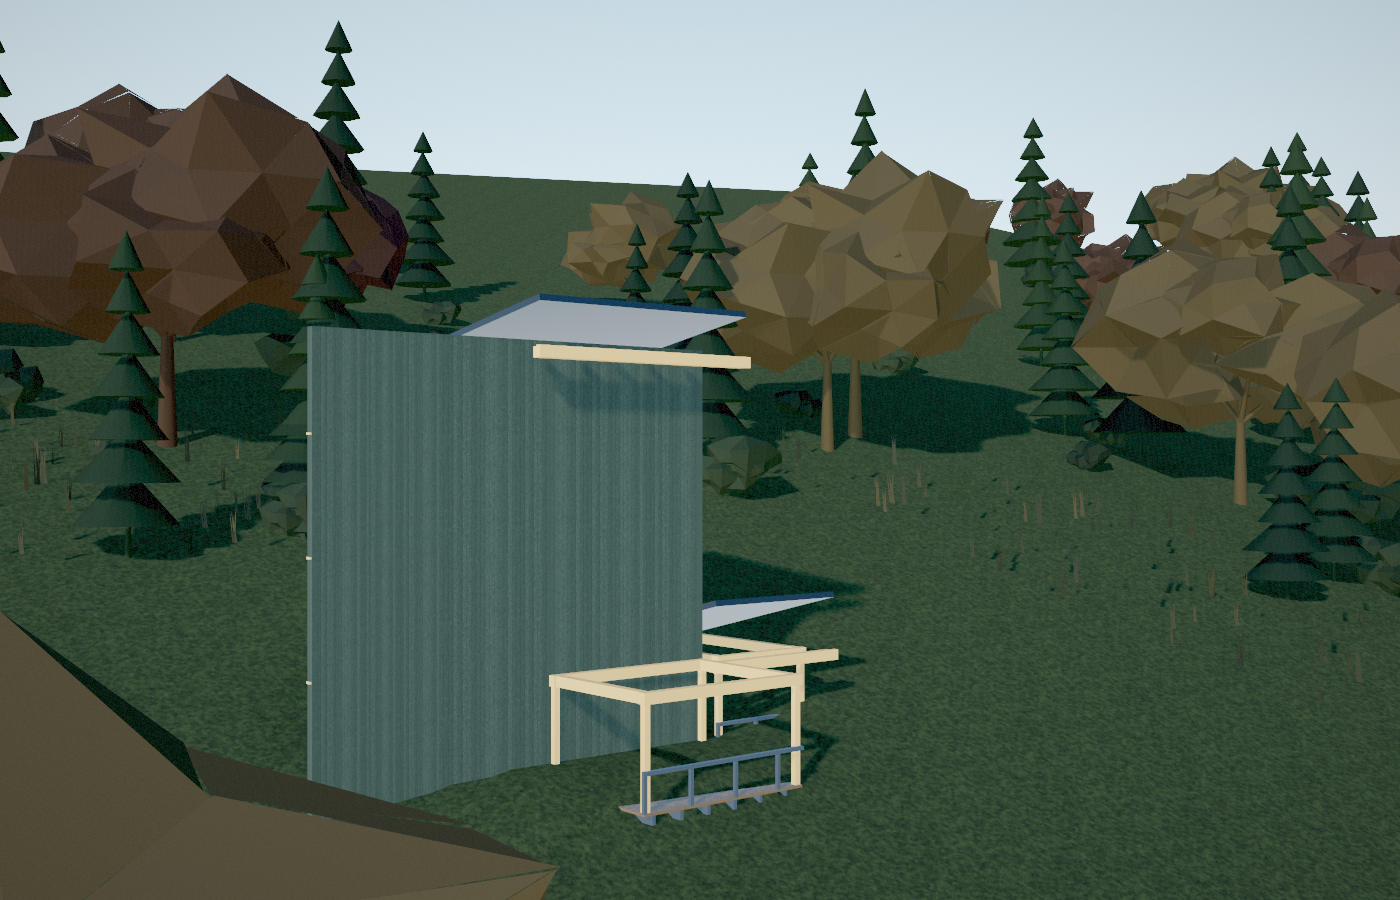
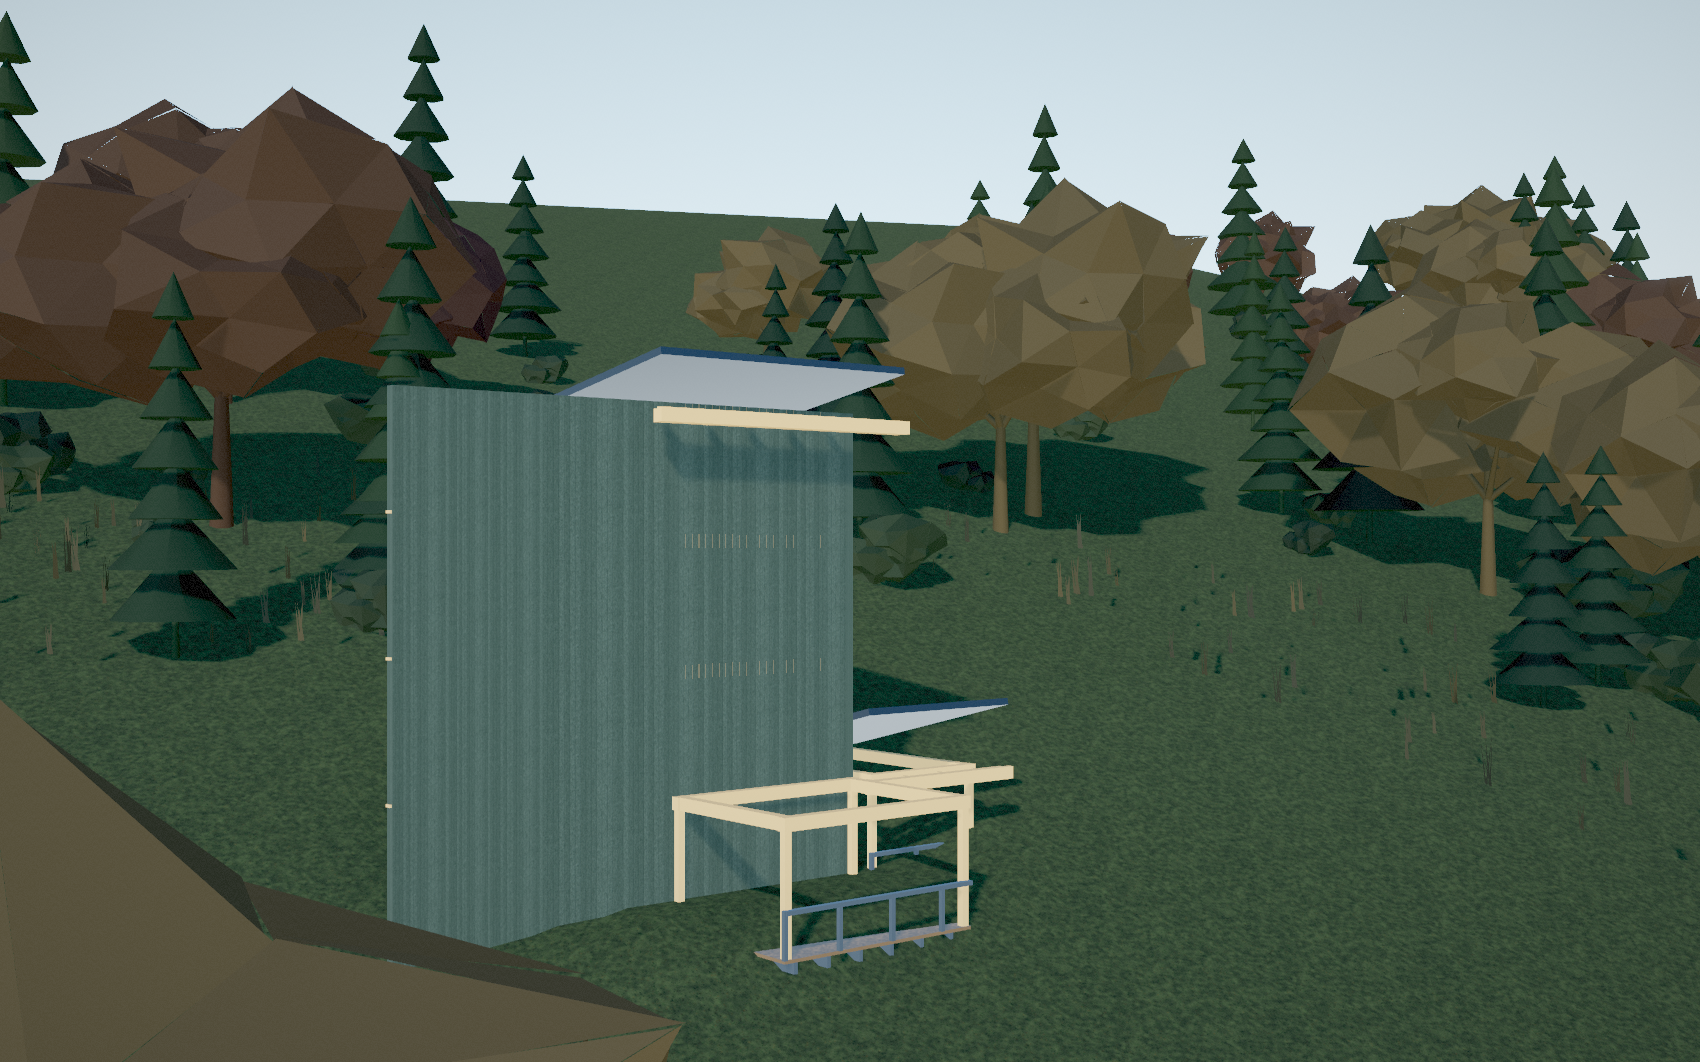
You can walk every scheme now, and the renders meet the house's standard
web/walk-schemes.html: all eleven schemes in one walkthrough, in the same
model the drawings come from. Orbit or first-person W A S D, and the
jump-to list is built from each scheme's OWN CHECKED PLAN -- so what you
can walk to is exactly what was drawn, room by room, and a scheme with no
plan yet says so rather than pretending. 11 schemes, 27 jump points on the
first, wired into the page checks so a broken one fails npm test.

RENDER STANDARD. The scheme shots were 20 samples at 1400x900 from one
distant camera, which is why they read as massing studies beside the
house's own renders. They now match it: 64 samples, 1700x1062 exterior and
1620x1110 interior, the same October afternoon sun and per-view exposure.

Three views each, and each has a job:

  compare   ONE camera, identical for every scheme, never derived. This is
            the A/B shot -- the Perch is small in frame because it IS
            small, and deriving it per scheme would flatter whichever
            framed best. Keeps the bare filename so every sheet and the
            packed page still resolve.
  hero      derived from the scheme's own bounds, so a 72 ft bar and an 18
            ft tower are each seen properly instead of one being a speck.
  interior  placed INSIDE the largest living room of its checked plan, at
            eye height, looking downhill at the view the whole site
            argument is about. Only possible now that the plans exist.
[…]

diff --git a/web/walk-schemes.html b/web/walk-schemes.html
@@ -1,0 +1,200 @@
+<!doctype html>
+<html lang="en">
+<head>
+<meta charset="utf-8">
+<meta name="viewport" content="width=device-width,initial-scale=1">
+<title>HENRY HOUSE — walk the alternatives</title>
+<style>
+  :root{ --ink:#e9edf2; --panel:rgba(16,19,24,.86); --line:#2c333d; --accent:#e08056; --mid:#93a0ae;
+         --mono:ui-monospace,"SF Mono",Menlo,Consolas,monospace; }
+  *{box-sizing:border-box}
+  html,body{margin:0;height:100%;overflow:hidden;background:#0e1114;color:var(--ink);font-family:var(--mono)}
+  canvas{display:block}
+  .panel{position:fixed;top:14px;left:14px;width:250px;max-height:calc(100vh - 28px);overflow:auto;
+    background:var(--panel);border:1px solid var(--line);border-radius:3px;padding:14px;backdrop-filter:blur(8px)}
+  h1{font-size:12px;letter-spacing:.14em;margin:0 0 2px;text-transform:uppercase}
+  .sub{font-size:10.5px;color:var(--mid);line-height:1.45;margin:0 0 12px}
+  .lbl{font-size:9.5px;letter-spacing:.14em;color:var(--mid);text-transform:uppercase;margin:12px 0 5px}
+  button{display:block;width:100%;text-align:left;background:#171c22;color:var(--ink);border:1px solid var(--line);
+    border-radius:2px;padding:6px 8px;margin-bottom:3px;font:inherit;font-size:10.5px;cursor:pointer}
+  button:hover{border-color:var(--accent)}
+  button.on{border-color:var(--accent);color:var(--accent)}
+  button:focus-visible{outline:2px solid var(--accent);outline-offset:1px}
+  select{width:100%;background:#171c22;color:var(--ink);border:1px solid var(--line);border-radius:2px;
+    padding:6px 8px;font:inherit;font-size:11px}
+  .stat{font-size:10px;color:var(--mid);line-height:1.5;margin-top:8px}
+  .hint{position:fixed;bottom:14px;left:50%;transform:translateX(-50%);background:var(--panel);
+    border:1px solid var(--line);border-radius:3px;padding:8px 14px;font-size:10.5px;color:var(--mid)}
+  #err{position:fixed;top:50%;left:50%;transform:translate(-50%,-50%);max-width:44ch;text-align:center;
+    color:#e0806a;font-size:12px;line-height:1.6;display:none}
+</style>
+</head>
+<body>
+<div class="panel">
+  <h1>Walk the alternatives</h1>
+  <p class="sub">Every scheme, in the same model the drawings come from. The rooms, the doors and the fixtures here are the ones on its sheet.</p>
+  <select id="scheme"></select>
+  <div class="stat" id="stat"></div>
+  <div class="lbl">Mode</div>
+  <button id="mOrbit" class="on">Orbit — drag to turn</button>
+  <button id="mWalk">Walk — W A S D, click to look</button>
+  <div class="lbl">Jump to</div>
+  <div id="jump"></div>
+  <div class="lbl">Show</div>
+  <div id="layers"></div>
+</div>
+<div class="hint" id="hint">Drag to orbit · scroll to zoom · switch to Walk and use W A S D</div>
+<div id="err"></div>
+<script type="importmap">
+{"imports":{"three":"./vendor/three/three.module.js","three/addons/":"./vendor/three/addons/"}}
+</script>
+<script type="module">
+import * as THREE from 'three';
+import { OrbitControls } from 'three/addons/controls/OrbitControls.js';
+import { PointerLockControls } from 'three/addons/controls/PointerLockControls.js';
+import { buildSchemeScene } from '../tools/render/lib/scheme3d.mjs';
+import { sunDirection } from '../tools/render/lib/render.mjs';
+import { SCHEMES, metrics } from '../model/schemes.mjs';
+import { planFor } from '../model/scheme-plans.mjs';
+
+window.__loaded = false; window.__error = null;
+const F = (i) => i / 12;
+
+const renderer = new THREE.WebGLRenderer({ antialias: true, powerPreference: 'high-performance' });
+renderer.setPixelRatio(Math.min(devicePixelRatio, 2));
+renderer.setSize(innerWidth, innerHeight);
+renderer.shadowMap.enabled = true;
+renderer.shadowMap.type = THREE.PCFSoftShadowMap;
+renderer.toneMapping = THREE.ACESFilmicToneMapping;
+renderer.outputColorSpace = THREE.SRGBColorSpace;
+document.body.appendChild(renderer.domElement);
+
+const sun = sunDirection({ dayOfYear: 288, hour: 14 });
+const camera = new THREE.PerspectiveCamera(58, innerWidth / innerHeight, 0.25, 9000);
+const orbit = new OrbitControls(camera, renderer.domElement);
+orbit.enableDamping = true; orbit.dampingFactor = 0.07;
+orbit.maxPolarAngle = Math.PI * 0.495;
+const walk = new PointerLockControls(camera, renderer.domElement);
+let mode = 'orbit';
+
+let scene = null, rig = null, groups = [];
+const sel = document.getElementById('scheme');
+for (const s of SCHEMES) {
+  const o = document.createElement('option');
+  o.value = s.id; o.textContent = s.name.replace('THE ', '');
+  sel.appendChild(o);
+}
+
+/** Load one scheme: new scene, new jump list, camera parked outside it. */
+function load(id) {
+  try {
+    if (scene) { scene.traverse(o => { o.geometry?.dispose?.(); }); }
+    const built = buildSchemeScene(renderer, { schemeId: id, sun, realtime: true });
+    scene = built.scene; rig = built.rig;
+    rig.sun.position.copy(sun.dir).multiplyScalar(900).add(rig.focus);
+    rig.sun.target.position.copy(rig.focus);
+    rig.skyLight.position.set(rig.focus.x + 200, rig.focus.y + 700, rig.focus.z + 150);
+    rig.skyLight.target.position.copy(rig.focus);
+    scene.add(walk.object);
+
+    const s = SCHEMES.find(x => x.id === id);
+    const m = metrics(s);
+    const plan = planFor(id);
+    document.getElementById('stat').innerHTML =
+      `${m.conditionedSf.toLocaleString()} sf · ${m.perimeterLf} lf perimeter · ${m.cutCY.toLocaleString()} CY<br>` +
+      (plan ? `${plan.levels.reduce((a, l) => a + (l.rooms?.length ?? 0), 0)} rooms, drawn and checked`
+            : '<span style="color:#e0a06a">no checked plan yet — massing only</span>');
+
+    // Jump list: the plan's own rooms, so what you can walk to is what was drawn.
+    const j = document.getElementById('jump');
+    j.innerHTML = '';
+    const add = (label, p, t) => {
+      const b = document.createElement('button');
+      b.textContent = label;
+      b.onclick = () => {
+        camera.position.set(...p);
+        if (mode === 'orbit') { orbit.target.set(...t); orbit.update(); }
+        else camera.lookAt(new THREE.Vector3(...t));
+      };
+      j.appendChild(b);
+    };
+    const cond = s.volumes.filter(v => v.kind !== 'shelt');
+    const bx = (Math.min(...cond.map(v => v.x0)) + Math.max(...cond.map(v => v.x1))) / 24;
+    const by0 = Math.min(...cond.map(v => v.y0)) / 12;
+    const top = Math.max(...cond.map(v => v.ffe + 10 * (v.storeys ?? 1)));
+    add('Outside — downhill face', [bx - 30, top * 0.7 + 8, -(by0 - 70)], [bx, top * 0.4, -(by0 + 10)]);
+    add('Above — the whole site', [bx - 90, 190, 260], [bx + 30, 10, -20]);
+    if (plan) {
+      for (const lv of plan.levels) {
+        for (const r of (lv.rooms ?? []).filter(x => x.use !== 'store' && x.use !== 'mech')) {
+          const eye = lv.ffe + 5.4;
+          add(`${r.name} — ffe ${lv.ffe}`,
+            [r.x0 + r.w / 2, eye, -(r.y0 + r.d - 2)],
+            [r.x0 + r.w / 2, eye - 0.5, -(r.y0 - 30)]);
+        }
+      }
+    }
+
+    // layer toggles
+    const L = document.getElementById('layers');
+    L.innerHTML = '';
+    groups = scene.children.filter(c => c.type === 'Group');
+    groups.forEach((g, i) => {
+      const b = document.createElement('button');
+      b.textContent = ['Building', 'Ground + drive', 'Vegetation', 'Ridges'][i] ?? `Layer ${i + 1}`;
+      b.className = 'on';
+      b.onclick = () => { g.visible = !g.visible; b.className = g.visible ? 'on' : ''; };
+      L.appendChild(b);
+    });
+
+    camera.position.set(bx - 30, top * 0.7 + 8, -(by0 - 70));
+    orbit.target.set(bx, top * 0.4, -(by0 + 10));
+    orbit.update();
+    window.__loaded = true;
+  } catch (e) {
+    window.__error = e.message + '\n' + e.stack;
+    const el = document.getElementById('err');
+    el.style.display = 'block';
+    el.textContent = 'Could not build this scheme: ' + e.message;
+  }
+}
+sel.onchange = () => load(sel.value);
+
+// ── modes ───────────────────────────────────────────────────────────────────
+const bOrbit = document.getElementById('mOrbit'), bWalk = document.getElementById('mWalk');
+bOrbit.onclick = () => { mode = 'orbit'; walk.unlock(); orbit.enabled = true;
+  bOrbit.className = 'on'; bWalk.className = '';
+  document.getElementById('hint').textContent = 'Drag to orbit · scroll to zoom · switch to Walk and use W A S D'; };
+bWalk.onclick = () => { mode = 'walk'; orbit.enabled = false; walk.lock();
+  bWalk.className = 'on'; bOrbit.className = '';
+  document.getElementById('hint').textContent = 'W A S D to move · mouse to look · Shift to run · Esc to release the pointer'; };
+renderer.domElement.addEventListener('click', () => { if (mode === 'walk') walk.lock(); });
+
+const keys = {};
+addEventListener('keydown', e => keys[e.code] = true);
+addEventListener('keyup', e => keys[e.code] = false);
+addEventListener('resize', () => {
+  camera.aspect = innerWidth / innerHeight; camera.updateProjectionMatrix();
+  renderer.setSize(innerWidth, innerHeight);
+});
+
+const clock = new THREE.Clock();
+function tick() {
+  requestAnimationFrame(tick);
+  const dt = Math.min(clock.getDelta(), 0.05);
+  if (mode === 'walk' && walk.isLocked) {
+    const sp = (keys.ShiftLeft || keys.ShiftRight ? 26 : 11) * dt;
+    if (keys.KeyW) walk.moveForward(sp);
+    if (keys.KeyS) walk.moveForward(-sp);
+    if (keys.KeyA) walk.moveRight(-sp);
+    if (keys.KeyD) walk.moveRight(sp);
+    if (keys.KeyQ) camera.position.y -= sp;
+    if (keys.KeyE) camera.position.y += sp;
+  } else orbit.update();
+  if (scene) renderer.render(scene, camera);
+}
+load(SCHEMES[0].id);
+tick();
+</script>
+</body>
+</html>

diff --git a/web/schemes.html b/web/schemes.html
@@ -10,37 +10,45 @@
 </head><body>
 <script type="module">
 import * as THREE from 'three';
-import { buildSchemeScene, schemeCamera } from '../tools/render/lib/scheme3d.mjs';
+import { buildSchemeScene, schemeCamera, schemeViews } from '../tools/render/lib/scheme3d.mjs';
 import { makeShiftCamera, Accumulator, sunDirection } from '../tools/render/lib/render.mjs';
 import { SCHEMES } from '../model/schemes.mjs';
 
 let renderer, state = null;
 window.__loaded = false; window.__error = null;
 
-window.setupScheme = function (id, w, h) {
+window.setupScheme = function (id, w, h, viewId) {
   try {
     if (renderer) { renderer.dispose(); renderer.domElement.remove(); }
+    const _views = schemeViews(id);
+    const _V = _views.find(v => v.id === (viewId || 'compare')) || _views[0];
     const canvas = document.createElement('canvas');
-    canvas.width = w; canvas.height = h;
+    canvas.width = w || _V.w; canvas.height = h || _V.h;
     document.body.appendChild(canvas);
     renderer = new THREE.WebGLRenderer({ canvas, antialias: false, preserveDrawingBuffer: true });
-    renderer.setPixelRatio(1); renderer.setSize(w, h, false);
+    renderer.setPixelRatio(1); renderer.setSize(canvas.width, canvas.height, false);
     renderer.shadowMap.enabled = true; renderer.shadowMap.type = THREE.PCFShadowMap;
     renderer.toneMapping = THREE.NoToneMapping;
     renderer.outputColorSpace = THREE.LinearSRGBColorSpace;
 
-    const sun = sunDirection({ dayOfYear: 288, hour: 14.2 });
+    // Views are per scheme now and carry their own sun and exposure, at the
+    // same standard as the main house. 'compare' stays one fixed camera for
+    // every scheme so the A/B remains a comparison.
+    const V = _V;
+    // set AFTER the view is chosen — the first version assigned this next to
+    // the other renderer settings, above the line that defines V, which throws
+    renderer.toneMappingExposure = V.exposure ?? 1;
+    const sun = sunDirection(V.sun || { dayOfYear: 288, hour: 14.2 });
     const built = buildSchemeScene(renderer, { schemeId: id, sun });
-    const V = schemeCamera();
-    const cam = makeShiftCamera({ focalMm: V.focal, aspect: w / h,
+    const cam = makeShiftCamera({ focalMm: V.focal, aspect: canvas.width / canvas.height,
       position: new THREE.Vector3(...V.pos), target: new THREE.Vector3(...V.target), shift: V.shift });
-    const accum = new Accumulator(renderer, w, h);
+    const accum = new Accumulator(renderer, canvas.width, canvas.height);
     accum.reset();
     state = { cam, accum, ...built };
     // exposed so tools/check/plan3d.mjs can walk the built graph and prove the
     // model contains the same fixtures, at the same coordinates, as the plan
     window.__scene = built.scene;
-    return { ok: true, name: built.scheme.name, metrics: built.metrics };
+    return { ok: true, name: built.scheme.name, metrics: built.metrics, view: V.id, w: V.w, h: V.h };
   } catch (e) { window.__error = e.message + '\n' + e.stack; return { ok: false, error: e.message }; }
 };
 window.renderPasses = function (n) {
@@ -51,6 +59,7 @@ window.renderPasses = function (n) {
   } catch (e) { window.__error = e.message + '\n' + e.stack; return { ok: false, error: e.message }; }
 };
 window.grab = function () { return renderer.domElement.toDataURL('image/png'); };
+window.schemeViewIds = (id) => schemeViews(id).map(v => v.id);
 window.__schemes = SCHEMES.map(s => s.id);
 window.__loaded = true;
 </script>
